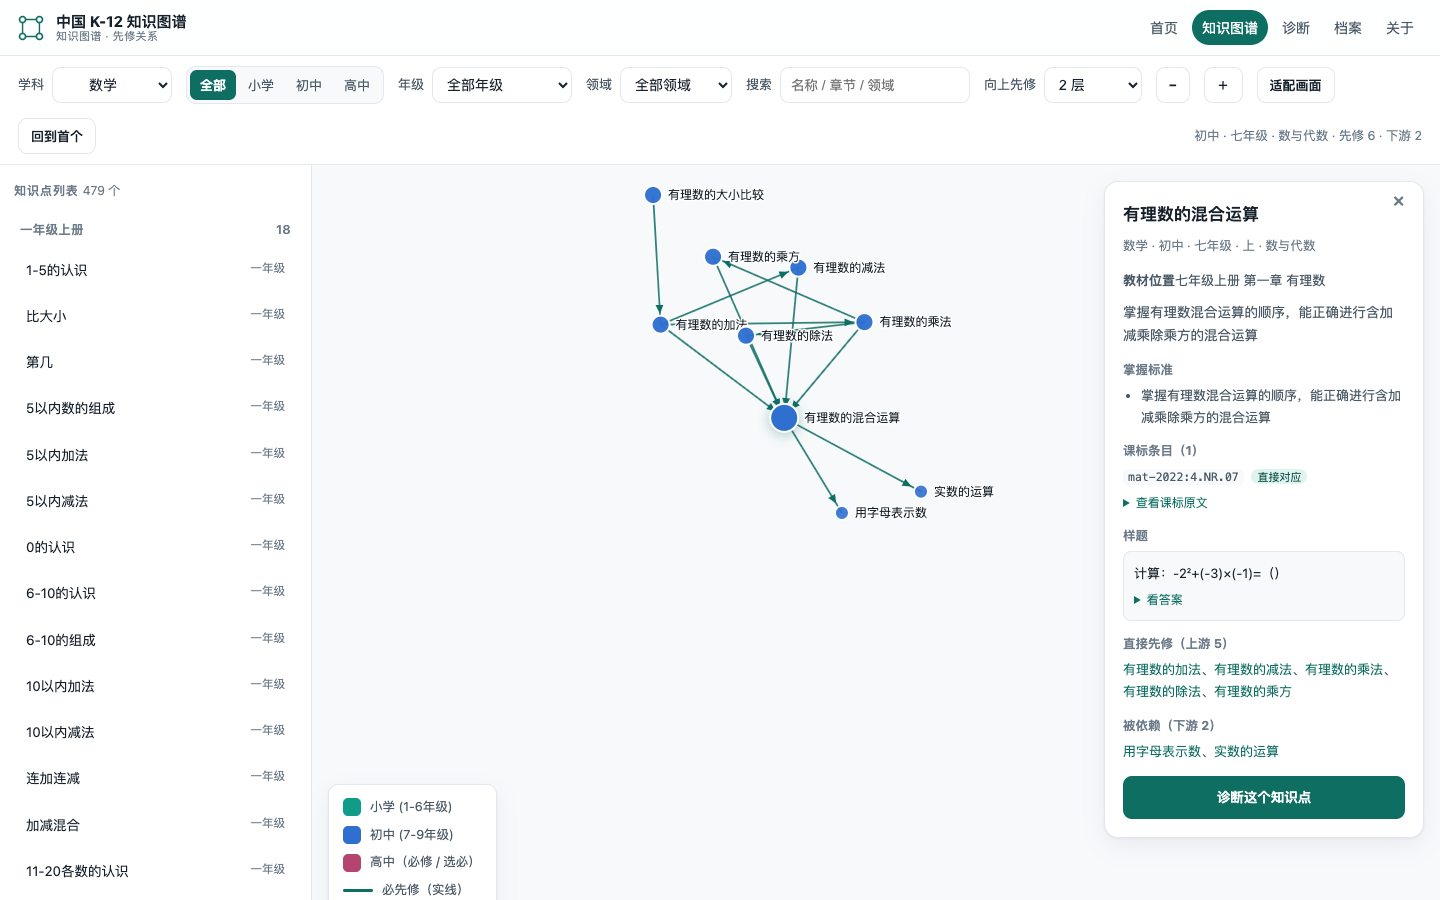
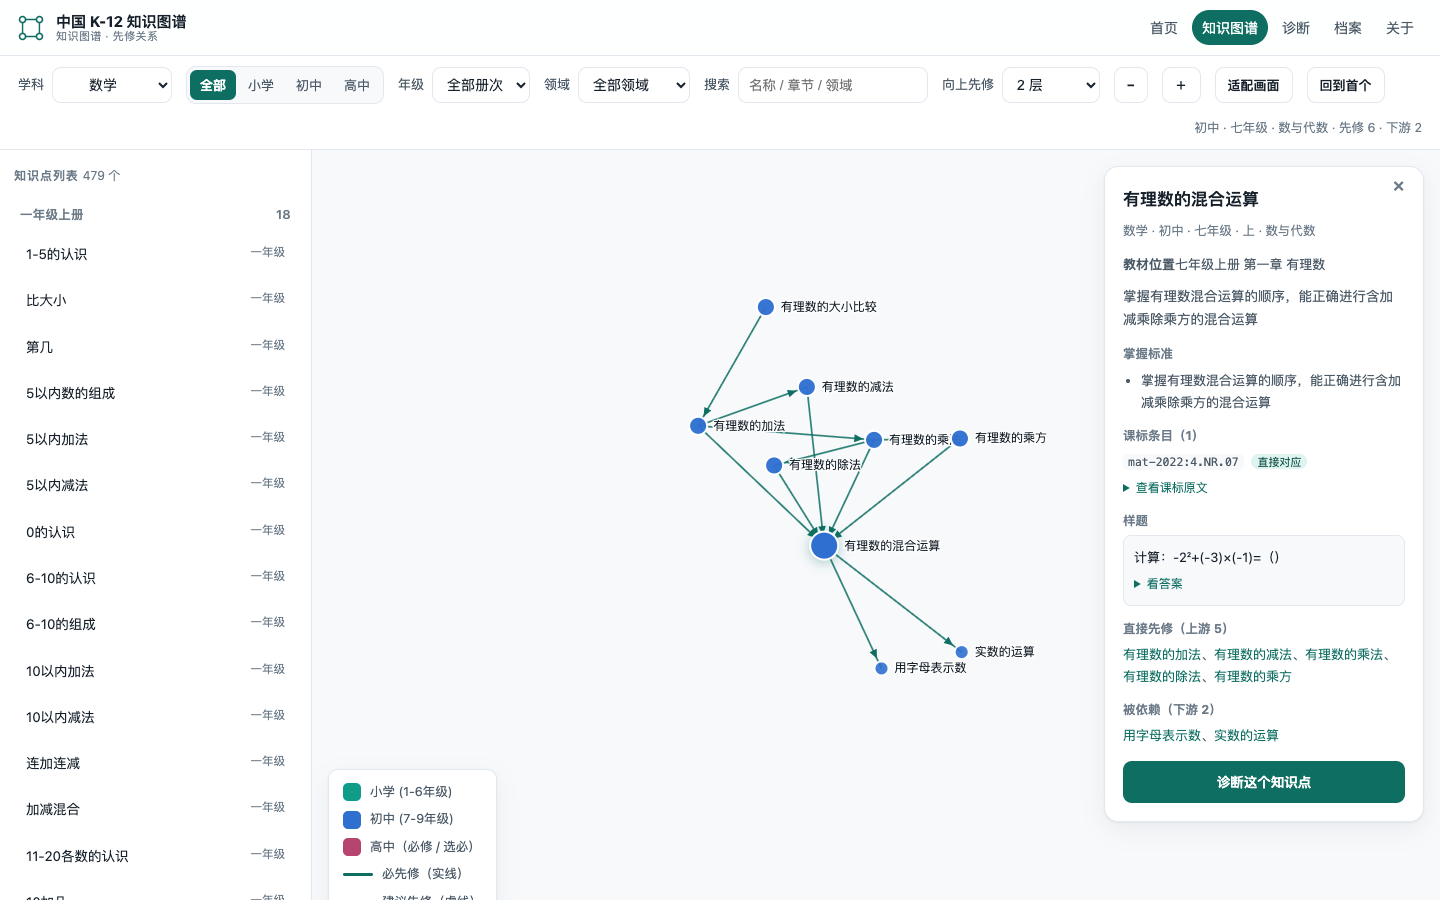
fix(ui): 册次标签改为从 chapter 派生，彻底消除「十三/十四年级」
- 各科 grade 与册次不是一一对应（物理 grade10=必修一/二，grade11=必修三/选必一/选必二；语文 grade10=必修上/下）
- explore：新增 bookLabel(t) 解析 chapter（必修第一册→必修一、选择性必修第二册→选必二、必修上册→必修上）；
  列表角标 / 详情元信息 / 分组标题 / 节点 tooltip / graph-meta 全部改用册名
- grade-select 改为动态「册次」下拉：1–9 年级 + 必修一~三 + 选必一~三（按册名排序），URL 用 ?book=
- diagnose：下拉同样用 bookLabel(topic) 显示册名
- 验证：math/physics 两科全文无「十/十一/十二/十三/十四年级」，选必三 29 条、物理选必一 17 条显示正确

diff --git a/explore/app.js b/explore/app.js
@@ -23,6 +23,7 @@
   var stage = params.get('stage') || 'all';
   var currentGrade = params.get('grade') || 'all';
   var currentDomain = params.get('domain') || 'all';
+  var currentBook = params.get('book') || 'all';   // 高中按册筛（必修一/选必二…）
   var query = '';
   var depth = 2;
   var selectedId = null;
@@ -37,16 +38,27 @@
     if (SENIOR_BOOK[g]) return SENIOR_BOOK[g];
     return (CN_NUM[g] || g) + '年级';
   }
-  function isSeniorBook(g) { return !!SENIOR_BOOK[Number(g)]; }
+  function isSeniorBook(g) { return Number(g) >= 10; }
+
+  // 册名一律从 chapter 派生：物理/英语/语文的 grade 与册次不是一一对应
+  function bookLabel(t) {
+    var head = ((t && t.chapter) || '').split(' ')[0].replace('各单元', '');
+    var m = head.match(/^(选择性必修|必修)(第?[一二三四五六七八九十]册|上册|下册|中册)$/);
+    if (m) {
+      var tail = m[2].replace('册', '')
+        .replace('第一', '一').replace('第二', '二').replace('第三', '三')
+        .replace('第四', '四').replace('第五', '五').replace('第六', '六');
+      return (m[1] === '选择性必修' ? '选必' : '必修') + tail;
+    }
+    return head || ((CN_NUM[Number(t && t.grade)] || (t || {}).grade || '') + '年级');
+  }
   function stageOf(g) { return g <= 6 ? 'primary' : (g <= 9 ? 'junior' : 'senior'); }
   function stageName(g) { return { primary: '小学', junior: '初中', senior: '高中' }[stageOf(g)]; }
   function colorOf(g) { return g <= 6 ? '#0f9d8a' : (g <= 9 ? '#2f6fd0' : '#b5446e'); }
   function bookKey(t) {
-    if (isSeniorBook(t.grade)) {
-      var head = (t.chapter || '').split(' ')[0] || '';
-      return head || gradeText(t.grade);
-    }
-    return gradeText(t.grade) + (t.semester === '下' ? '下册' : '上册');
+    return isSeniorBook(t.grade)
+      ? bookLabel(t)
+      : gradeText(t.grade) + (t.semester === '下' ? '下册' : '上册');
   }
 
   async function fetchJSON(path) {
@@ -93,7 +105,9 @@
     var q = query.trim().toLowerCase();
     return topicsData.filter(function (t) {
       if (stage !== 'all' && stageOf(t.grade) !== stage) return false;
-      if (currentGrade !== 'all' && String(t.grade) !== String(currentGrade)) return false;
+      if (currentBook !== 'all') {
+        if (!isSeniorBook(t.grade) || bookLabel(t) !== currentBook) return false;
+      } else if (currentGrade !== 'all' && String(t.grade) !== String(currentGrade)) return false;
       if (currentDomain !== 'all' && (t.domain || '未分类') !== currentDomain) return false;
       if (!q) return true;
       return (t.name || '').toLowerCase().indexOf(q) >= 0 ||
@@ -125,7 +139,7 @@
         li.dataset.id = t.id;
         li.className = 'topic-item' + (t.id === selectedId ? ' active' : '');
         li.innerHTML = '<span class="t-name">' + t.name + '</span>' +
-          '<span class="grade">' + gradeText(t.grade) + '</span>';
+          '<span class="grade">' + (isSeniorBook(t.grade) ? bookLabel(t) : gradeText(t.grade)) + '</span>';
         li.onclick = function () { select(t.id, true); };
         d.appendChild(li);
       });
@@ -154,7 +168,8 @@
     var q = new URLSearchParams();
     q.set('subject', currentSubject);
     if (stage !== 'all') q.set('stage', stage);
-    if (currentGrade !== 'all') q.set('grade', currentGrade);
+    if (currentBook !== 'all') q.set('book', currentBook);
+    else if (currentGrade !== 'all') q.set('grade', currentGrade);
     if (currentDomain !== 'all') q.set('domain', currentDomain);
     return '?' + q.toString() + (hashId ? '#' + encodeURIComponent(hashId) : '');
   }
@@ -182,7 +197,8 @@
   function showInfo(t) {
     $('info-title').textContent = t.name;
     $('info-meta').textContent = [SUBJECT_NAME[t.subject] || t.subject, stageName(t.grade),
-      gradeText(t.grade), isSeniorBook(t.grade) ? '' : (t.semester || ''), t.domain || '']
+      isSeniorBook(t.grade) ? bookLabel(t) : gradeText(t.grade),
+      isSeniorBook(t.grade) ? '' : (t.semester || ''), t.domain || '']
       .filter(Boolean).join(' · ');
 
     var h = '<div class="kv"><b>教材位置</b>' + (t.chapter || '—') + '</div>';
@@ -320,7 +336,8 @@
       });
     node.append('title').text(function (d) {
       var t = byId.get(d.id);
-      return d.name + '\n' + gradeText(t.grade) + ' · ' + (t.domain || '') + '\n' + (t.chapter || '');
+      return d.name + '\n' + (isSeniorBook(t.grade) ? bookLabel(t) : gradeText(t.grade)) +
+        ' · ' + (t.domain || '') + '\n' + (t.chapter || '');
     });
 
     simulation.on('tick', function () {
@@ -337,7 +354,8 @@
     svg.call(zoomBehavior).on('dblclick.zoom', null);
 
     var t = byId.get(selectedId);
-    $('graph-meta').textContent = stageName(t.grade) + ' · ' + gradeText(t.grade) + ' · ' + (t.domain || '') +
+    $('graph-meta').textContent = stageName(t.grade) + ' · ' +
+      (isSeniorBook(t.grade) ? bookLabel(t) : gradeText(t.grade)) + ' · ' + (t.domain || '') +
       ' · 先修 ' + up.size + ' · 下游 ' + down.size;
   }
 
@@ -378,6 +396,7 @@
       topicsData = res[0]; dependenciesData = res[1];
       indexGraph();
       fillDomainOptions();
+      fillGradeOptions();
 
       var hashId = decodeURIComponent((location.hash || '').replace(/^#/, ''));
       if (!(hashId && byId.has(hashId))) {
@@ -403,6 +422,28 @@
     }
   }
 
+  function fillGradeOptions() {
+    var sel = $('grade-select');
+    var html = '<option value="all">全部册次</option>';
+    for (var g = 1; g <= 9; g++) html += '<option value="g:' + g + '">' + gradeText(g) + '</option>';
+    var books = [], seen = {};
+    topicsData.forEach(function (t) {
+      if (!isSeniorBook(t.grade)) return;
+      var b = bookLabel(t);
+      if (!seen[b]) { seen[b] = true; books.push({ label: b, min: t.grade }); }
+    });
+    var RANK = { '必修一': 11, '必修二': 12, '必修三': 13, '必修四': 14, '必修五': 15, '必修六': 16,
+                 '选必一': 21, '选必二': 22, '选必三': 23, '选必四': 24 };
+    books.sort(function (a, b) {
+      return (RANK[a.label] || 99) - (RANK[b.label] || 99) || a.min - b.min;
+    });
+    books.forEach(function (b) { html += '<option value="b:' + b.label + '">' + b.label + '</option>'; });
+    sel.innerHTML = html;
+    var want = currentBook !== 'all' ? ('b:' + currentBook) : (currentGrade !== 'all' ? ('g:' + currentGrade) : 'all');
+    if ([].some.call(sel.options, function (o) { return o.value === want; })) sel.value = want;
+    else { currentBook = 'all'; currentGrade = 'all'; sel.value = 'all'; }
+  }
+
   function fillDomainOptions() {
     var sel = $('domain-select');
     sel.innerHTML = '<option value="all">全部领域</option>' + domains.map(function (d) {
@@ -422,7 +463,7 @@
   function bind() {
     $('subject-select').addEventListener('change', function (e) {
       currentSubject = e.target.value;
-      stage = 'all'; currentGrade = 'all'; currentDomain = 'all';
+      stage = 'all'; currentGrade = 'all'; currentDomain = 'all'; currentBook = 'all';
       selectedId = null; closeInfo();
       history.replaceState(null, '', urlFor());
       loadData();
@@ -438,7 +479,10 @@
     });
 
     $('grade-select').addEventListener('change', function (e) {
-      currentGrade = e.target.value;
+      var v = e.target.value;
+      if (v === 'all') { currentGrade = 'all'; currentBook = 'all'; }
+      else if (v.indexOf('b:') === 0) { currentBook = v.slice(2); currentGrade = 'all'; }
+      else { currentGrade = v.slice(2); currentBook = 'all'; }
       history.replaceState(null, '', urlFor());
       refreshSelection();
     });

diff --git a/diagnose/index.html b/diagnose/index.html
@@ -263,7 +263,7 @@
                 topicsData.forEach(topic => {
                     const option = document.createElement('option');
                     option.value = topic.id;
-                    option.textContent = `${topic.name} (${getGradeText(topic.grade)})`;
+                    option.textContent = `${topic.name} (${bookLabel(topic)})`;
                     topicSelect.appendChild(option);
                 });
                 topicSelect.disabled = false;
@@ -284,13 +284,24 @@
         }
 
         // 获取年级文本
+        function bookLabel(topic) {
+            const head = ((topic && topic.chapter) || '').split(' ')[0].replace('各单元', '');
+            const m = head.match(/^(选择性必修|必修)(第?[一二三四五六七八九十]册|上册|下册|中册)$/);
+            if (m) {
+                const tail = m[2].replace('册', '')
+                    .replace('第一', '一').replace('第二', '二').replace('第三', '三')
+                    .replace('第四', '四').replace('第五', '五');
+                return (m[1] === '选择性必修' ? '选必' : '必修') + tail;
+            }
+            return head || getGradeText(topic && topic.grade);
+        }
+
         function getGradeText(grade) {
             // 1–9 年级用「X年级」；10–14 是高中册次（必修一/二、选必一/二/三），不写「十三年级」
             const CN = ['', '一', '二', '三', '四', '五', '六', '七', '八', '九'];
-            const BOOK = { 10: '必修一', 11: '必修二', 12: '选必一', 13: '选必二', 14: '选必三' };
             const g = Number(grade);
-            if (BOOK[g]) return BOOK[g];
-            return (CN[g] || g) + '年级';
+            if (g <= 9) return (CN[g] || g) + '年级';
+            return '高中';
         }
 
         // 开始诊断

diff --git a/docs/pages.md b/docs/pages.md
@@ -22,9 +22,9 @@
 
 首页的学科卡就是 `explore/?subject=<id>`，所以从首页点卡片能直接落到该学科的图。
 
-`explore/` 的交互：`#stage-tabs`（全部/小学/初中/高中）、`#subject-select`、`#grade-select`、`#domain-select`（按本学科实际领域生成）、`#topic-search`（名称/章节/领域，回车跳第一个）、`#depth-select`（向上 1/2/3 层或全部祖先）、`#zoom-in` / `#zoom-out` / `#fit-btn`、`#reset-btn`；左侧列表按「年级·册」分组折叠（高中按册），选中项自动展开并滚到可见；点图中任意节点即以它为中心重画（向下固定 1 层）。
+`explore/` 的交互：`#stage-tabs`（全部/小学/初中/高中）、`#subject-select`、`#grade-select`（1–9 年级 + 高中按册：必修一/二/三、选必一/二/三，按本学科实际册名生成）、`#domain-select`（按本学科实际领域生成）、`#topic-search`（名称/章节/领域，回车跳第一个）、`#depth-select`（向上 1/2/3 层或全部祖先）、`#zoom-in` / `#zoom-out` / `#fit-btn`、`#reset-btn`；左侧列表按「年级·册」分组折叠（高中按册），选中项自动展开并滚到可见；点图中任意节点即以它为中心重画（向下固定 1 层）。
 详情卡含：教材位置、描述、掌握标准、**课标条目（id + 置信度 + 可展开的课标原文）**、**样题（答案折叠）**、直接先修、被依赖，底部「诊断这个知识点」跳到 `diagnose/?subject=…&topic=…` 并自动预选。
-URL 可分享：`?subject=&stage=&grade=&domain=#<topic-id>`，切筛选/选点都会同步 `history.replaceState`。JS 在 `explore/app.js`。
+URL 可分享：`?subject=&stage=&grade=&book=&domain=#<topic-id>`（高中用 `book=`），切筛选/选点都会同步 `history.replaceState`。JS 在 `explore/app.js`。
 
 ## 3. 数据依赖
 

diff --git a/CHANGELOG.md b/CHANGELOG.md
@@ -6,6 +6,12 @@
 
 ## [Unreleased]
 
+### 修复（0.6.2）
+
+- 「册次」筛选改为按 `chapter` 派生：每科 grade 与册次并非一一对应（物理 grade 10 含必修一/二、grade 11 含必修三/选必一/选必二；
+  语文 grade 10 含必修上/下），年级下拉统一为 1–9 年级 + 必修一/二/三 + 选必一/二/三，按册名排序；
+  列表角标、详情元信息、分组标题、tooltip、诊断下拉全部用册名，URL 增加 `?book=`。
+
 ### 修复（0.6.1）
 
 - **「十三年级 / 十四年级」表述错误**：数学 `grade` 13/14 是高中册次（选必二/选必三），不是年级。
